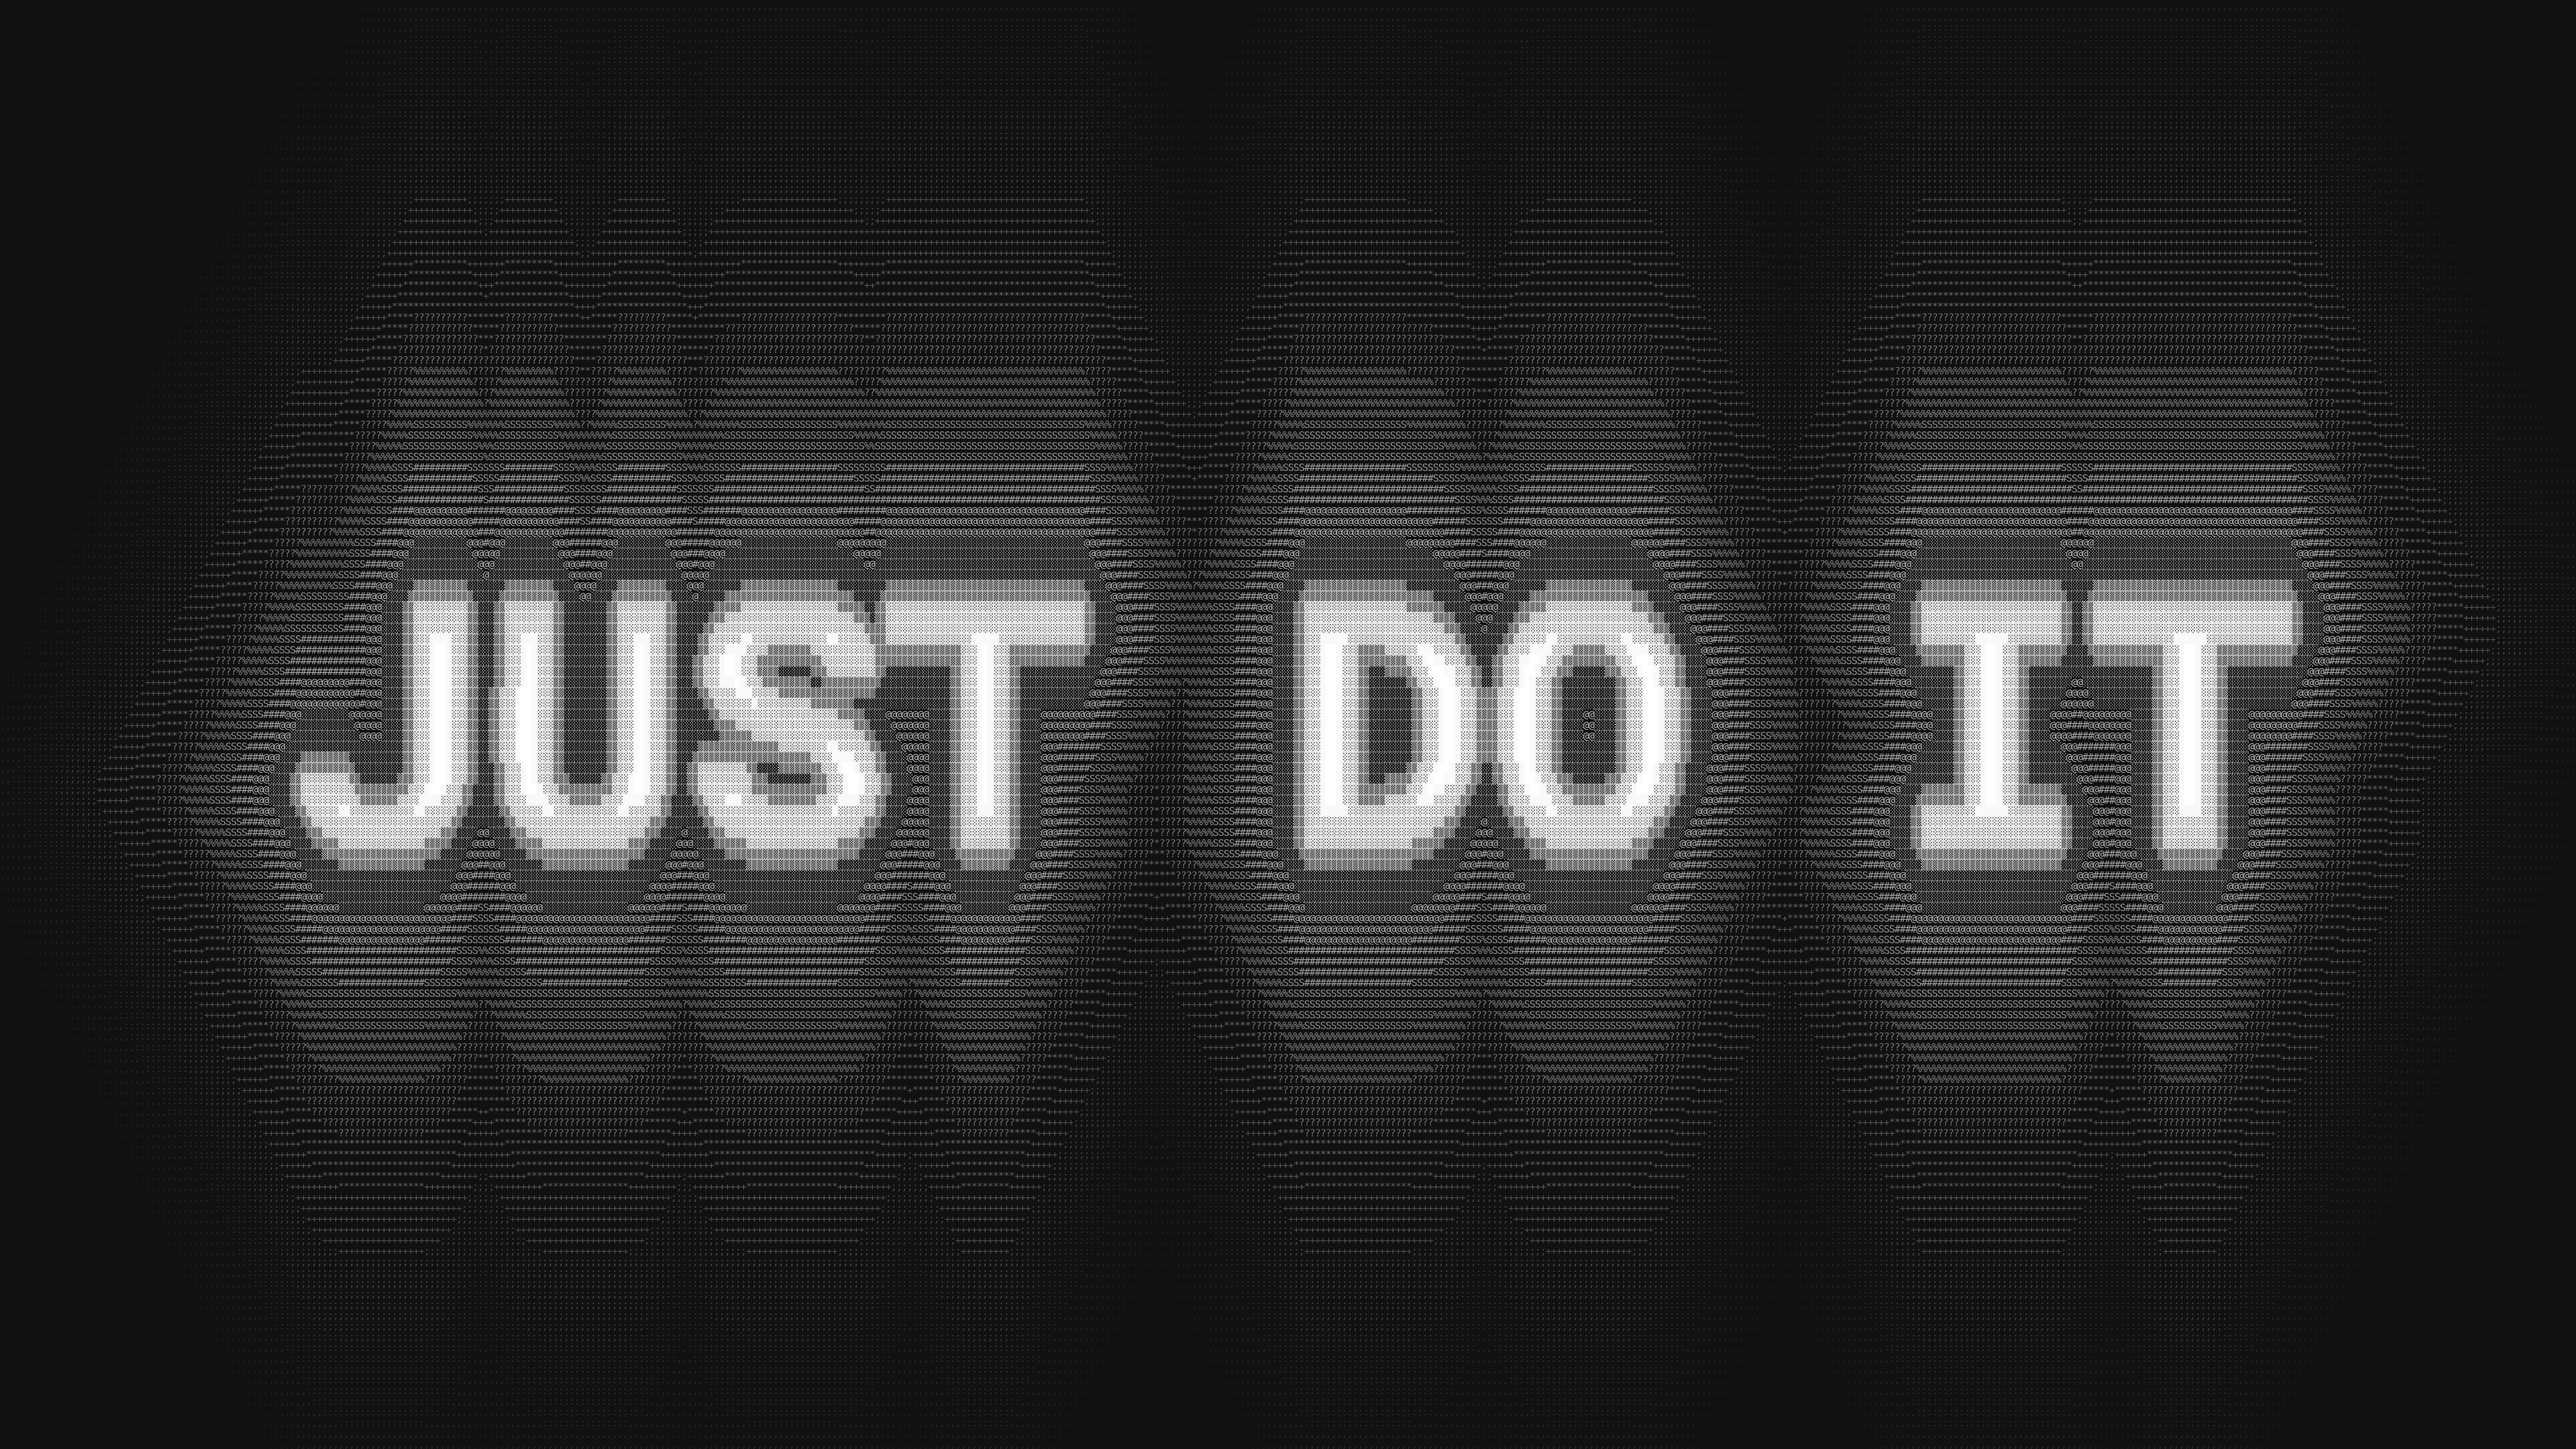
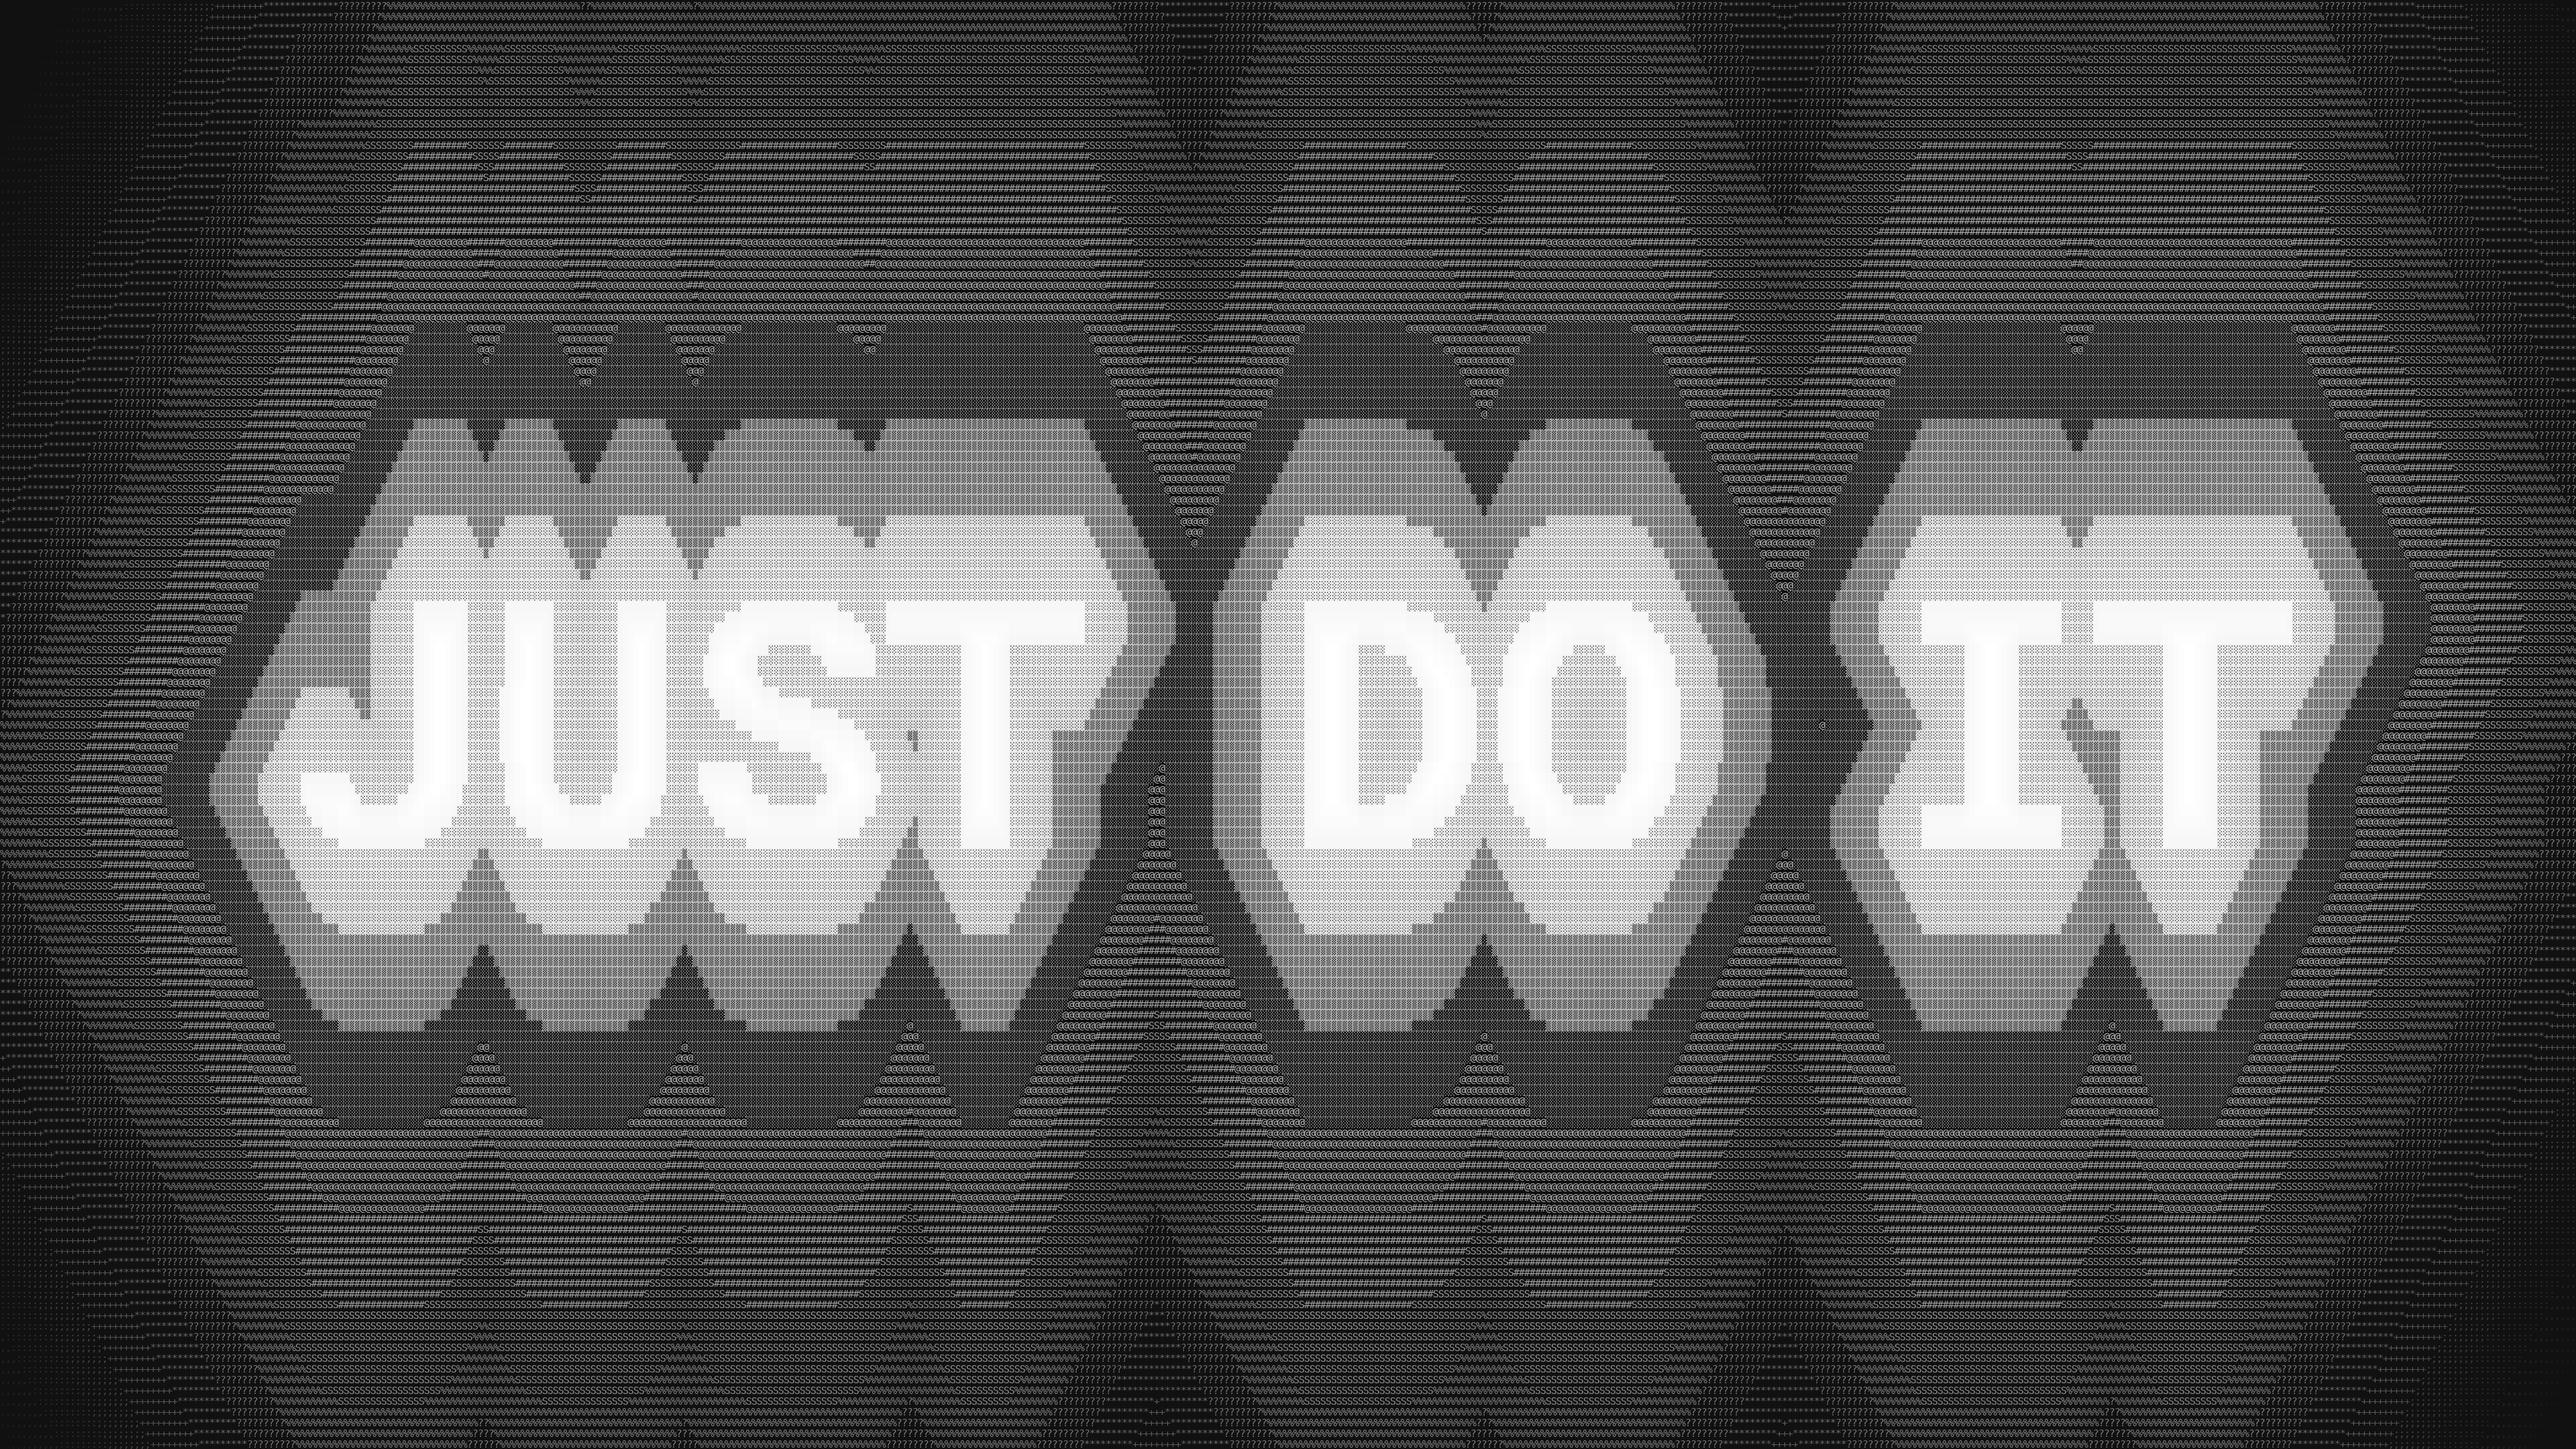
feat: 5 SDF variants restored — piecewise + gamma side by side
S-G09-sdf:         floor=0.05, power=1.0 — best glow
  S-G09-sdf-outline: floor=0.1, power=2.0 — sharpest edges
  S-G09-sdf-mid:     floor=0, mid=0.4, power=1.5 — wide glow
  S-G09-sdf-mid2:    gamma=1.8 — classic linear (the one Jonny liked)
  S-G09-sdf-neon:    best piecewise + cyan->magenta gradient

diff --git a/scripts/generate_gallery.py b/scripts/generate_gallery.py
@@ -962,13 +962,15 @@ def _curated_entries_g09(
     # that is part of the aesthetic, not an artifact. Keep all 4 gamma variants.
     # SDF piecewise curve: floor/mid/high/power gives bright solid interior,
     # crisp edge ring, and controlled glow halo — better than gamma alone.
-    # Best: floor=0.05, mid=0.5, high=0.85, power=1.0
-    _SDF_BEST = {"floor": 0.05, "mid": 0.5, "high": 0.85, "power": 1.0}
+    _SDF_BEST  = {"floor": 0.05, "mid": 0.5, "high": 0.85, "power": 1.0}
     _SDF_SHARP = {"floor": 0.1,  "mid": 0.5, "high": 0.85, "power": 2.0}
+    _SDF_WIDE  = {"floor": 0.0,  "mid": 0.4, "high": 0.85, "power": 1.5}
     _strategy_c = [
         ("S-G09-density",     "G09+F01 — Density (hi-res)",          "density", {}),
         ("S-G09-sdf",         "G09+F06 — SDF glow",                   "sdf",    _SDF_BEST),
         ("S-G09-sdf-outline", "G09+F06 — SDF sharp",                 "sdf",    _SDF_SHARP),
+        ("S-G09-sdf-mid",     "G09+F06 — SDF wide glow",             "sdf",    _SDF_WIDE),
+        ("S-G09-sdf-mid2",    "G09+F06 — SDF linear (gamma 1.8)",    "sdf",    {"gamma": 1.8}),
         ("S-G09-shape",       "G09+F07 — Shape (hi-res)",            "shape",  {}),
     ]
     for stem, label, fill_name, fkw in _strategy_c:

diff --git a/docs/gallery-4k/README.md b/docs/gallery-4k/README.md
@@ -78,53 +78,54 @@
 </tr>
 <tr>
 <td align="center"><img src="S-G09-sdf-mid.png" width="780"><br><sub><b>G09 — Sdf Mid</b></sub></td>
+<td align="center"><img src="S-G09-sdf-mid2.png" width="780"><br><sub><b>G09 — Sdf Mid2</b></sub></td>
+</tr>
+<tr>
 <td align="center"><img src="S-G09-sdf-neon.png" width="780"><br><sub><b>G09 — Sdf Neon</b></sub></td>
-</tr>
-<tr>
 <td align="center"><img src="S-G09-sdf-outline.png" width="780"><br><sub><b>G09 — Sdf Outline</b></sub></td>
+</tr>
+<tr>
 <td align="center"><img src="S-G09-sdf.png" width="780"><br><sub><b>G09 — Sdf</b></sub></td>
-</tr>
-<tr>
 <td align="center"><img src="S-G09-shape-ocean.png" width="780"><br><sub><b>G09 — Shape Ocean</b></sub></td>
+</tr>
+<tr>
 <td align="center"><img src="S-G09-shape.png" width="780"><br><sub><b>G09 — Shape</b></sub></td>
-</tr>
-<tr>
 <td align="center"><img src="S-G09-shear-left.png" width="780"><br><sub><b>G09 — Shear Left</b></sub></td>
+</tr>
+<tr>
 <td align="center"><img src="S-G09-shear-plasma.png" width="780"><br><sub><b>G09 — Shear Plasma</b></sub></td>
-</tr>
-<tr>
 <td align="center"><img src="S-G09-shear-right.png" width="780"><br><sub><b>G09 — Shear Right</b></sub></td>
+</tr>
+<tr>
 <td align="center"><img src="S-G09-sine-warp-deep.png" width="780"><br><sub><b>G09 — Sine Warp Deep</b></sub></td>
-</tr>
-<tr>
 <td align="center"><img src="S-G09-sine-warp-fast.png" width="780"><br><sub><b>G09 — Sine Warp Fast</b></sub></td>
+</tr>
+<tr>
 <td align="center"><img src="S-G09-sine-warp-rainbow.png" width="780"><br><sub><b>G09 — Sine Warp Rainbow</b></sub></td>
-</tr>
-<tr>
 <td align="center"><img src="S-G09-sine-warp.png" width="780"><br><sub><b>G09 — Sine Warp</b></sub></td>
+</tr>
+<tr>
 <td align="center"><img src="S-G09-slime.png" width="780"><br><sub><b>G09 — Slime</b></sub></td>
-</tr>
-<tr>
 <td align="center"><img src="S-G09-truchet.png" width="780"><br><sub><b>G09 — Truchet</b></sub></td>
+</tr>
+<tr>
 <td align="center"><img src="S-G09-turing-maze.png" width="780"><br><sub><b>G09 — Turing Maze</b></sub></td>
-</tr>
-<tr>
 <td align="center"><img src="S-G09-turing-spots.png" width="780"><br><sub><b>G09 — Turing Spots</b></sub></td>
+</tr>
+<tr>
 <td align="center"><img src="S-G09-turing.png" width="780"><br><sub><b>G09 — Turing</b></sub></td>
-</tr>
-<tr>
 <td align="center"><img src="S-G09-voronoi-cells.png" width="780"><br><sub><b>G09 — Voronoi Cells</b></sub></td>
+</tr>
+<tr>
 <td align="center"><img src="S-G09-voronoi-coarse.png" width="780"><br><sub><b>G09 — Voronoi Coarse</b></sub></td>
-</tr>
-<tr>
 <td align="center"><img src="S-G09-voronoi-cracked.png" width="780"><br><sub><b>G09 — Voronoi Cracked</b></sub></td>
+</tr>
+<tr>
 <td align="center"><img src="S-G09-voronoi-fine.png" width="780"><br><sub><b>G09 — Voronoi Fine</b></sub></td>
-</tr>
-<tr>
 <td align="center"><img src="S-G09-voronoi.png" width="780"><br><sub><b>G09 — Voronoi</b></sub></td>
-<td align="center"><img src="S-G09-wave-moire.png" width="780"><br><sub><b>G09 — Wave Moire</b></sub></td>
 </tr>
 <tr>
+<td align="center"><img src="S-G09-wave-moire.png" width="780"><br><sub><b>G09 — Wave Moire</b></sub></td>
 <td align="center"><img src="S-G09-wave.png" width="780"><br><sub><b>G09 — Wave</b></sub></td>
 </tr>
 </table>
